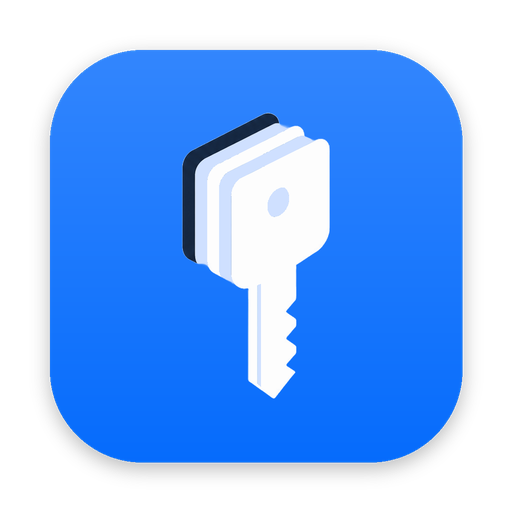
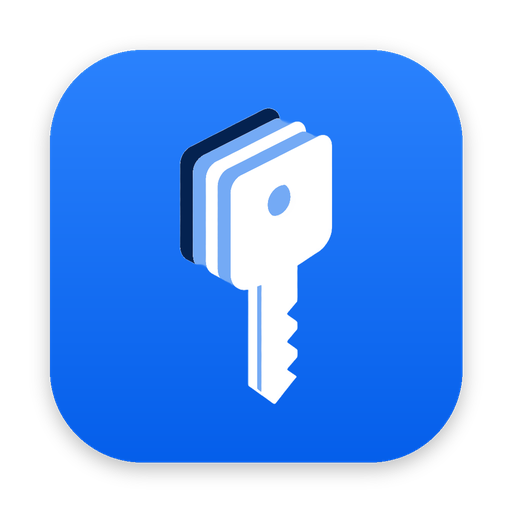
fix(app): the mark reads again, and the audience buttons do something
**The mark.** Recolouring it by threshold was the mistake: every antialiased
edge matched no branch and kept its original colour, the key and the cards both
landed on near-white so the stack merged into one smear, and the back card stayed
navy — a hard black slab on a blue tile. It looked exactly as bad as it was.

Recolouring now weights the three source tones by distance, so an edge lands
between the targets the way it did before instead of falling through. The three
tones are given somewhere to go: the key becomes white and carries the shape,
the cards step to a clear blue so the stack is still a stack, and the back card
goes deep rather than black. Compared again at 128, 64 and 32 before choosing.

**The buttons.** "Only chosen" and "All except" applied on click, so choosing a
mode before ticking anybody set an error — at the bottom of `main`, under a
list of several hundred keys, off-screen. The button had done something and
said so where nobody could read it, which is indistinguishable from a dead
control.

They pick a mode now. The agent list appears, a line underneath says in words
what the result will be, and Save commits it — disabled, with the reason
visible, until there is something to save.

One thing the rework exposed: flipping between `include` and `exclude` used to
keep the ticks, and those names mean opposite things — the agent that was the
only one allowed silently became one of the blocked. A flip starts empty.

diff --git a/app/ui/index.html b/app/ui/index.html
@@ -269,7 +269,11 @@
   let signins = null, connecting = {};
   // Which keys are ticked, and whether a bulk delete is awaiting a yes.
   let picked = {}, bulkConfirm = false;
-  let audienceFor = null;   // the key whose audience is being edited
+  // The key whose audience is open, and the edit in progress. The mode
+  // buttons used to apply on click, so choosing `Only chosen` before ticking
+  // anybody just set an error at the far bottom of a long list — which reads
+  // as a dead button. They pick a mode now; Save commits it.
+  let audienceFor = null, audienceDraft = null;
   // Which row is mid-edit. The background refresh must not wipe a half-typed
   // value out from under someone, so polling pauses while this is set.
   let revealed = {};    // key -> true once its value has been fetched and shown
@@ -524,21 +528,37 @@
       </div>`;
     }
     const known = cat.agents || [];
+    const draft = audienceDraft || { mode: rule?.mode || "all", agents: [...(rule?.agents || [])] };
+    const needsAgents = draft.mode !== "all";
+    const ready = !needsAgents || draft.agents.length > 0;
+    const modeLabel = (m) => ({ all: "Every agent", include: "Only chosen", exclude: "All except" }[m]);
+    const summary = draft.mode === "all"
+      ? "every agent will be able to read it"
+      : draft.agents.length
+        ? (draft.mode === "include"
+            ? `only ${draft.agents.join(", ")} will be able to read it`
+            : `everyone except ${draft.agents.join(", ")} will be able to read it`)
+        : "now pick which agents";
+
     return `<div class="audedit">
       <div class="sub">Who may read <span class="mono">${esc(k)}</span>?</div>
       <div class="audmodes">
-        <button class="act ${!rule ? "primary" : ""}" data-audset="${esc(k)}" data-mode="all">Every agent</button>
-        <button class="act ${rule?.mode === "include" ? "primary" : ""}" data-audset="${esc(k)}" data-mode="include">Only chosen</button>
-        <button class="act ${rule?.mode === "exclude" ? "primary" : ""}" data-audset="${esc(k)}" data-mode="exclude">All except</button>
+        ${["all", "include", "exclude"].map((m) =>
+          `<button class="act ${draft.mode === m ? "primary" : ""}" data-audmode="${m}"
+            aria-pressed="${draft.mode === m}">${modeLabel(m)}</button>`).join("")}
       </div>
-      ${known.length ? `<div class="audlist">
+      ${needsAgents ? (known.length ? `<div class="audlist">
         ${known.map((a) => `<label><input type="checkbox" data-audagent="${esc(a)}"
-          ${rule?.agents?.includes(a) ? "checked" : ""} /> ${esc(a)}</label>`).join("")}
+          ${draft.agents.includes(a) ? "checked" : ""} /> ${esc(a)}</label>`).join("")}
       </div>` : `<p class="note">No agents have asked for a credential yet, so there is
-        nobody to choose. They appear here once they do.</p>`}
-      <p class="note">Excluding an agent is final: it is refused whatever the access
-      mode says, and no approval or unlock overrides it.</p>
-      <button class="act" data-audcancel="1">Done</button>
+        nobody to choose. They appear here the first time one asks.</p>`) : ""}
+      <p class="note">${draft.mode === "exclude"
+        ? "Excluding an agent is final: it is refused whatever the access mode says, and no approval or unlock overrides it."
+        : `Result: ${esc(summary)}.`}</p>
+      <div class="audmodes">
+        <button class="act primary" data-audsave="${esc(k)}" ${ready && !busy ? "" : "disabled"}>Save</button>
+        <button class="act" data-audcancel="1">Cancel</button>
+      </div>
     </div>`;
   }
 
@@ -1103,23 +1123,40 @@ passbook oauth connect google:work</pre>
     });
 
     main.querySelectorAll("[data-aud]").forEach((b) => b.onclick = () => {
-      audienceFor = b.dataset.aud; paint();
+      audienceFor = b.dataset.aud; audienceDraft = null; paint();
     });
     main.querySelectorAll("[data-audcancel]").forEach((b) => b.onclick = () => {
-      audienceFor = null; paint();
+      audienceFor = null; audienceDraft = null; paint();
     });
-    main.querySelectorAll("[data-audset]").forEach((b) => b.onclick = async () => {
-      const mode = b.dataset.mode;
-      const chosen = [...main.querySelectorAll("[data-audagent]")]
-        .filter((x) => x.checked).map((x) => x.dataset.audagent);
-      if (mode !== "all" && !chosen.length) {
-        notice = "Tick at least one agent first."; paint(); return;
-      }
+    main.querySelectorAll("[data-audmode]").forEach((b) => b.onclick = () => {
+      const rule = state.catalog?.audiences?.[audienceFor];
+      audienceDraft = audienceDraft
+        || { mode: rule?.mode || "all", agents: [...(rule?.agents || [])] };
+      const next = b.dataset.audmode;
+      // Between `include` and `exclude` the same names mean opposite things —
+      // the agent that was the only one allowed becomes one of the blocked. So
+      // a flip starts empty rather than carrying a selection across a change of
+      // meaning that nobody asked for.
+      if (next !== audienceDraft.mode) audienceDraft.agents = [];
+      audienceDraft.mode = next;
+      paint();
+    });
+    main.querySelectorAll("[data-audagent]").forEach((c) => c.onchange = () => {
+      audienceDraft = audienceDraft || { mode: "include", agents: [] };
+      const who = c.dataset.audagent;
+      audienceDraft.agents = c.checked
+        ? [...new Set([...audienceDraft.agents, who])]
+        : audienceDraft.agents.filter((a) => a !== who);
+      paint();
+    });
+    main.querySelectorAll("[data-audsave]").forEach((b) => b.onclick = async () => {
+      const draft = audienceDraft || { mode: "all", agents: [] };
       busy = true; paint();
       try {
-        state = await invoke("set_key_audience",
-          { name: b.dataset.audset, mode, agents: mode === "all" ? [] : chosen });
-        notice = ""; audienceFor = null; grid = null;
+        state = await invoke("set_key_audience", {
+          name: b.dataset.audsave, mode: draft.mode,
+          agents: draft.mode === "all" ? [] : draft.agents });
+        notice = ""; audienceFor = null; audienceDraft = null; grid = null;
       } catch (e) { notice = String(e); }
       finally { busy = false; paint(); }
     });
